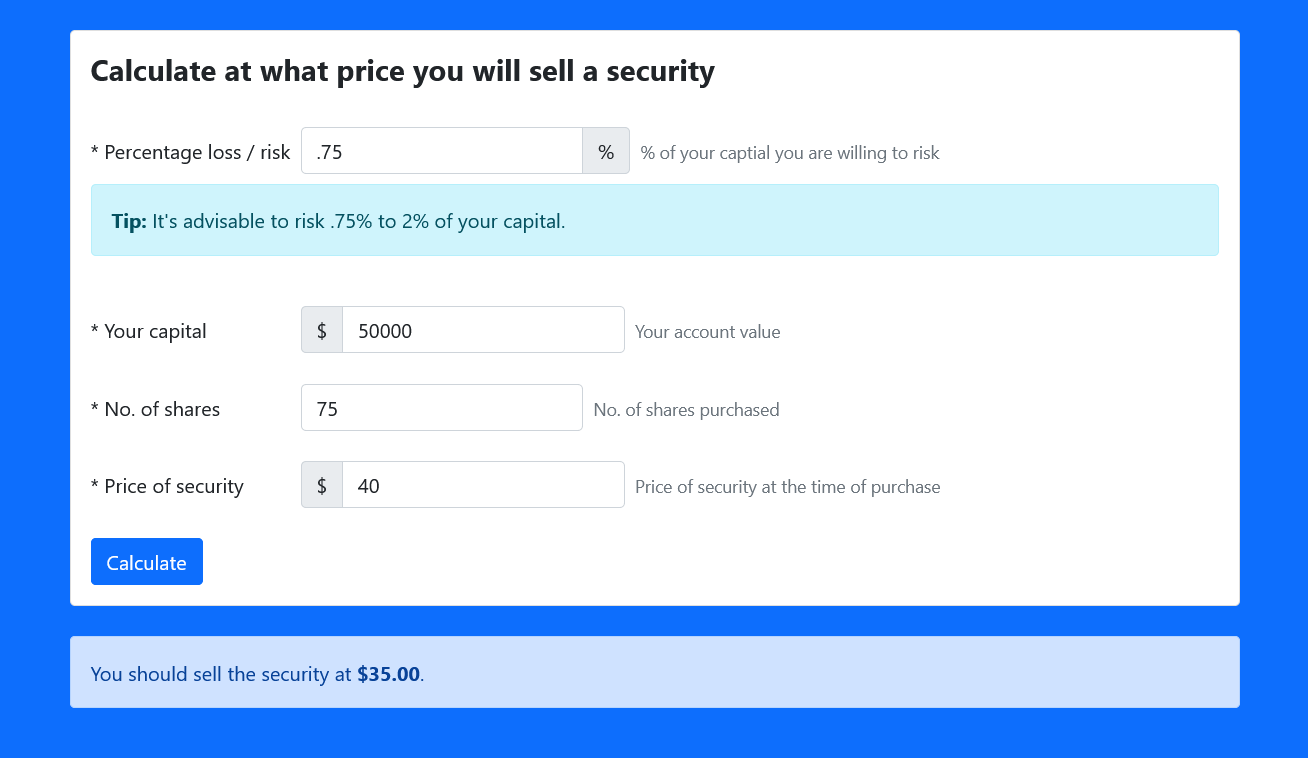
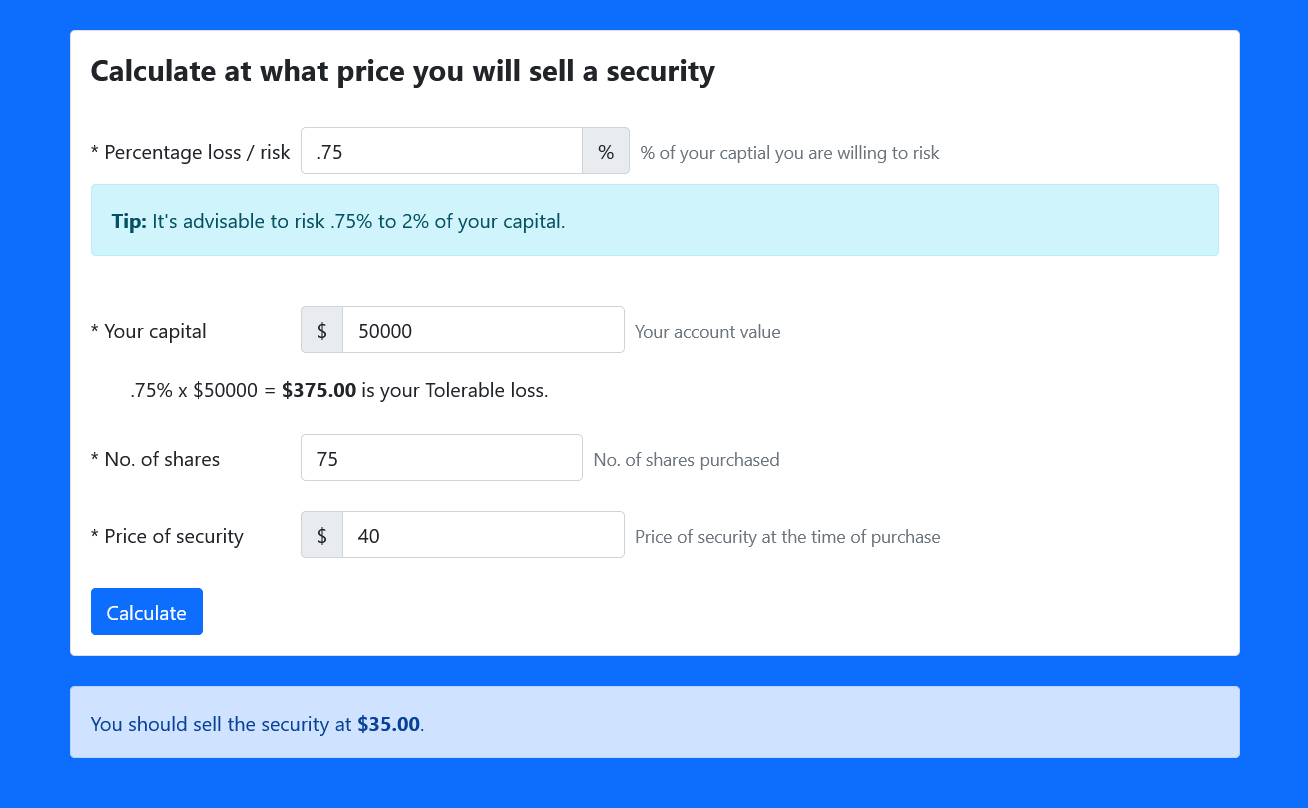
show tolerable loss

diff --git a/index.html b/index.html
@@ -65,6 +65,8 @@
                     </span>
                 </div>
             </div>
+            <div class="row g-2 align-items-center mb-4 ms-2 ps-4 d-none" id="tolerableLossAmount">
+            </div>
             <div class="row g-2 align-items-center mb-4">
                 <div class="col-auto">
                     <label for="noOfShares" class="col-form-label">* No. of shares</label>
@@ -109,6 +111,23 @@
         integrity="sha256-/xUj+3OJU5yExlq6GSYGSHk7tPXikynS7ogEvDej/m4=" crossorigin="anonymous"></script>
     <script>
         $('form').on('submit', formChangeHandler);
+
+        $('#percentageToRisk').on('keyup', handleTolerableLoss);
+        $('#capital').on('keyup', handleTolerableLoss);
+
+        function handleTolerableLoss(e) {
+            e.preventDefault();
+            const percentageToRisk = $('#percentageToRisk').val() || 0;
+            const capital = $('#capital').val() || 0;
+
+            if (!isNaN(percentageToRisk) && !isNaN(capital)) {
+                const tolerableLoss = percentageToRisk * capital / 100;
+                $('#tolerableLossAmount').removeClass('d-none');
+                $('#tolerableLossAmount').html(
+                    `${percentageToRisk}% x $${capital} = <strong class="w-auto m-0">$${tolerableLoss.toFixed(2)}</strong> is your Tolerable loss.`
+                );
+            }
+        }
 
         function formChangeHandler(e) {
             e.preventDefault();
